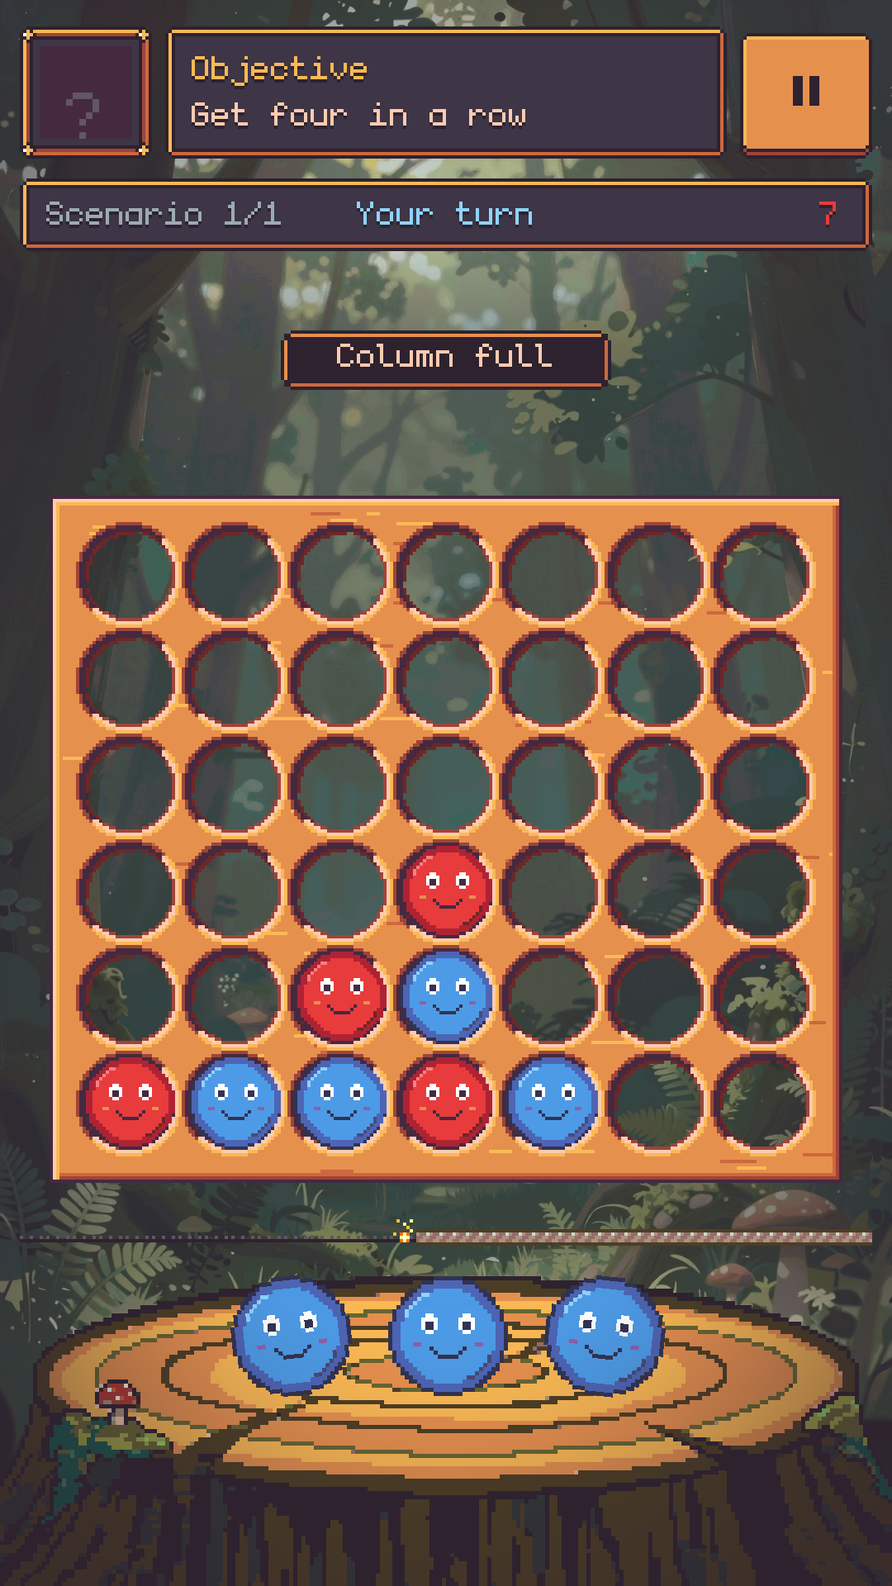
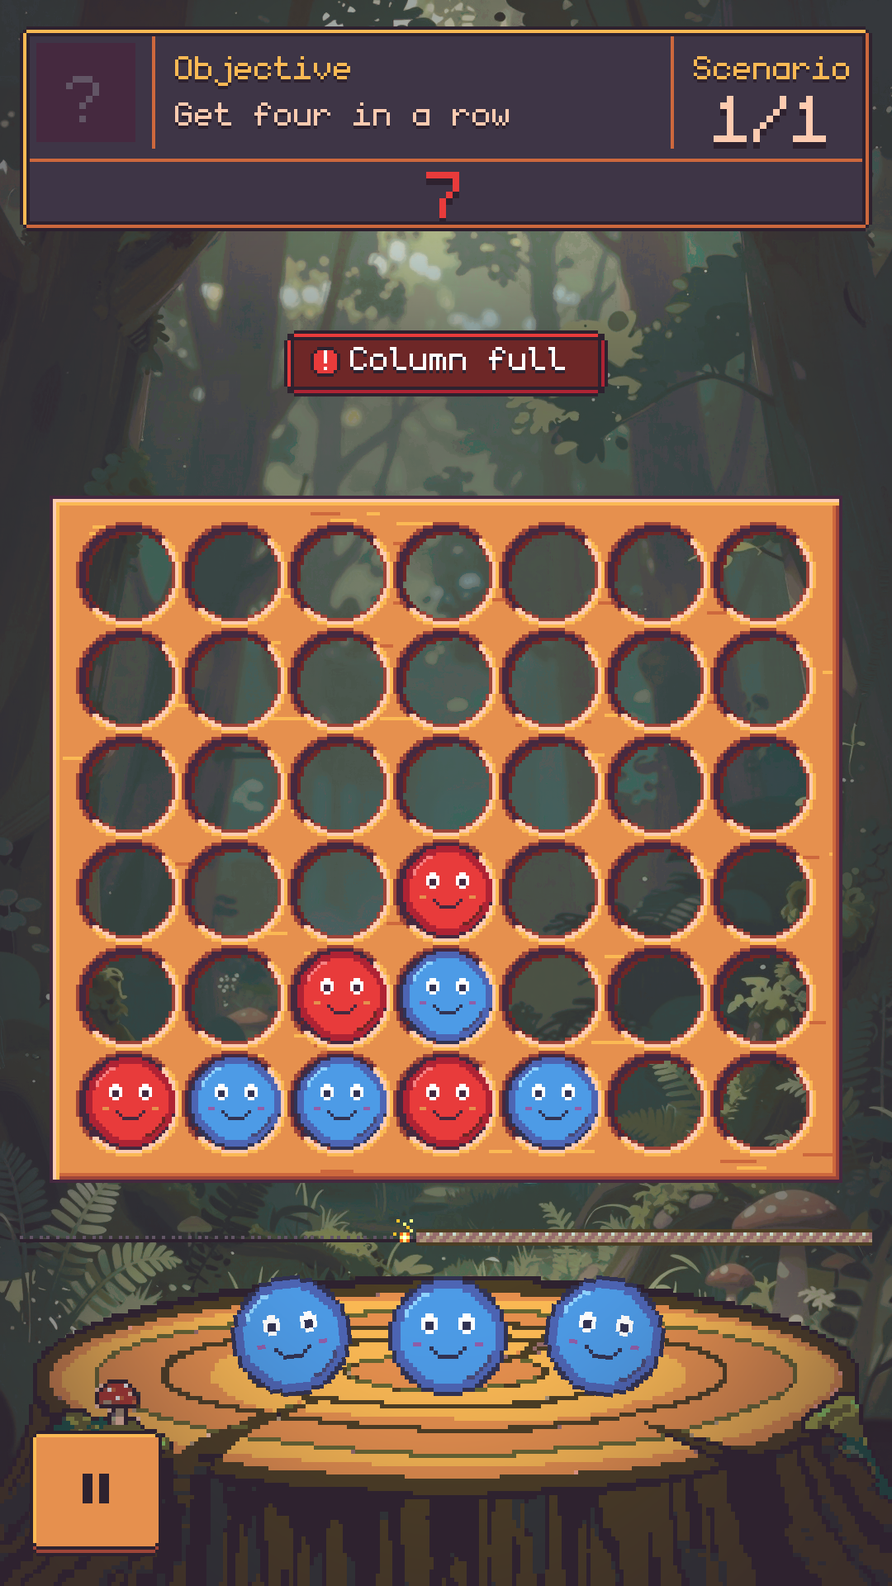
Art B: review round 1 - title vista bg, one-block HUD, error toast, pause bottom left

Changed region(s): [[0.0, 0.0, 0.9778, 0.1562], [0.3056, 0.1875, 0.7028, 0.25], [0.0306, 0.875, 0.1833, 1.0]]

diff --git a/art/ui/make_ui_mocks.py b/art/ui/make_ui_mocks.py
@@ -10,6 +10,7 @@ place the real Controls. The Strange Man figure is a placeholder silhouette (Art
 import math
 import os
 import sys
+import time
 
 import numpy as np
 from PIL import Image, ImageDraw, ImageFont
@@ -28,7 +29,8 @@ UI = {name: Image.open(f"assets/ui/{name}.png").convert("RGBA") for name in (
     "panel", "window", "dialogue", "dialogue_arrow", "button_normal", "button_pressed",
     "button_disabled", "toast", "banner", "slider_track", "slider_fill", "slider_knob",
     "toggle_on", "toggle_off", "segment_normal", "segment_selected", "icon_pause",
-    "icon_speaker", "icon_speaker_muted", "logo", "fuse_rope", "fuse_burnt", "fuse_spark")}
+    "icon_speaker", "icon_speaker_muted", "logo", "fuse_rope", "fuse_burnt", "fuse_spark",
+    "toast_error", "icon_error", "divider_h", "divider_v")}
 SCRIM = (*kit.INK0[:3], 178)
 
 
@@ -65,8 +67,8 @@ def text_img(s, colour, mult=1, italic=False):
 class Screen:
     def __init__(self, bg=None):
         self.px = Image.new("RGBA", (GW, GH), (0, 0, 0, 0))
-        if bg == "forest":
-            self.bg = Image.open("assets/backgrounds/forest.png").convert("RGBA")
+        if bg in ("forest", "title"):
+            self.bg = Image.open(f"assets/backgrounds/{bg}.png").convert("RGBA")
         else:
             self.bg = Image.new("RGBA", (GW * S, GH * S), kit.INK0 if bg is None else bg)
 
@@ -98,7 +100,15 @@ class Screen:
         if vignette:
             out = apply_vignette(out)
         out.alpha_composite(self.px.resize((GW * S, GH * S), Image.NEAREST))
-        out.convert("RGB").save(os.path.join(OUT, f"mock_{name}.png"))
+        # Windows sometimes holds the file (an open viewer, the Godot importer): retry.
+        path = os.path.join(OUT, f"mock_{name}.png")
+        for attempt in range(10):
+            try:
+                out.convert("RGB").save(path)
+                return
+            except OSError:
+                time.sleep(0.5)
+        raise OSError("could not write " + path)
 
 
 def apply_vignette(img, strength=0.55):
@@ -151,25 +161,40 @@ def draw_fuse(s, x, y, w, burnt):
     s.put(UI["fuse_spark"].crop((11, 0, 22, 11)), end - 5, y - 1)
 
 
-def hud(s, top=8, turn="Your turn", timer="24", timer_red=False):
+def hud(s, top=8, timer="24", timer_red=False):
+    """One HUD block with sections (Sean, 2026-11-20 review): portrait | objective |
+    scenario on top, the turn timer centred in the lower section. Pause is bottom left."""
     x0, w = 6, GW - 12
-    # Portrait frame (Strange Man head crop comes in Art pass C).
-    s.panel("window", x0, top, 40, 40)
-    s.put(Image.new("RGBA", (28, 28), hexc("45293f")), x0 + 6, top + 6)
-    s.text("?", x0 + 20, top + 12, kit.INK2, 2, centre=True, shadow=False)
-    # Objective panel.
-    s.panel("panel", x0 + 44, top, w - 44 - 44, 40)
-    s.text("Objective", x0 + 52, top + 5, kit.GOLD_HI)
-    s.text("Get four in a row", x0 + 52, top + 19, kit.CREAM)
-    # Pause button (36x36 = 96 px at the 720 base).
-    s.panel("button_normal", GW - 6 - 40, top + 2, 40, 38)
-    s.put(UI["icon_pause"], GW - 6 - 24, top + 2 + 13)
-    # Status row: run details, turn, timer.
-    y = top + 46
-    s.panel("panel", x0, y, w, 22)
-    s.text("Scenario 1/1", x0 + 8, y + 3, kit.INK3 if False else hexc("9babb2"))
-    s.text(turn, GW // 2, y + 3, hexc("8fd3ff") if turn == "Your turn" else hexc("f68181"), centre=True)
-    s.text(timer, GW - 6 - 10 - int(FONT.getlength(timer)), y + 3, hexc("e83b3b") if timer_red else kit.CREAM, 1)
+    top_h, low_h = 40, 22
+    s.panel("panel", x0, top, w, top_h + low_h)
+    # Portrait section (Strange Man head crop comes in Art pass C).
+    s.put(Image.new("RGBA", (30, 30), hexc("45293f")), x0 + 5, top + 5)
+    s.text("?", x0 + 20, top + 7, kit.INK2, 2, centre=True, shadow=False)
+    vx1, vx2 = x0 + 39, x0 + w - 62
+    for vx in (vx1, vx2):
+        s.put(UI["divider_v"].resize((3, top_h - 6)), vx, top + 3)
+    s.put(UI["divider_h"].resize((w - 6, 3)), x0 + 3, top + top_h - 1)
+    # Objective section.
+    s.text("Objective", vx1 + 8, top + 5, kit.GOLD_HI)
+    s.text("Get four in a row", vx1 + 8, top + 19, kit.CREAM)
+    # Scenario section (where Pause was).
+    cx = (vx2 + 3 + x0 + w) // 2
+    s.text("Scenario", cx, top + 5, kit.GOLD_HI, centre=True)
+    s.text("1/1", cx, top + 13, kit.CREAM, 2, centre=True)
+    # Lower section: the turn timer, centred ("—" on the opponent's turn).
+    s.text(timer, GW // 2, top + top_h - 4, hexc("e83b3b") if timer_red else kit.CREAM, 2, centre=True)
+    # Pause button, bottom left of the safe area (36 game px = 96 px at the 720 base).
+    s.panel("button_normal", 9, GH - 9 - 38, 40, 38)
+    s.put(UI["icon_pause"], 9 + 16, GH - 9 - 38 + 13)
+
+
+def error_toast(s, msg, y=100):
+    """Error toast: red pill + warning badge, above the aim lane."""
+    w = int(FONT.getlength(msg)) + 32
+    x = (GW - w) // 2
+    s.panel("toast_error", x, y, w, 20)
+    s.put(UI["icon_error"], x + 8, y + 5)
+    s.text(msg, x + 20, y + 1, kit.WHITE)
 
 
 CELLS = {(0, 0): "red", (1, 0): "blue", (2, 0): "blue", (3, 0): "red", (3, 1): "blue",
@@ -177,12 +202,9 @@ CELLS = {(0, 0): "red", (1, 0): "blue", (2, 0): "blue", (3, 0): "red", (3, 1): "
 
 
 def mock_title():
-    s = Screen("forest")
+    s = Screen("title")
     logo = UI["logo"]
-    s.put(logo, (GW - logo.width) // 2, 70)
-    for i, (x, col) in enumerate(((50, "blue"), (110, "red"), (170, "blue"), (220, "red"))):
-        g = goob(col)
-        s.put(g, x - 16, 300 - (6 if i % 2 else 0))
+    s.put(logo, (GW - logo.width) // 2, 60)
     s.text("Tap to start", GW // 2, 236, kit.WHITE, 2, centre=True)
     s.button("Options", 75, 380, 120)
     s.button("Quit", 95, 422, 80)
@@ -194,37 +216,34 @@ def mock_hud():
     s = Screen("forest")
     board_scene(s, CELLS)
     hud(s, timer="7", timer_red=True)
-    # Aim lane: a toast above it.
-    s.panel("toast", 85, 100, 100, 18)
-    s.text("Column full", GW // 2, 100, kit.CREAM, centre=True)
+    error_toast(s, "Column full")
     s.save("2_hud_toast_fuse")
 
 
 def mock_dialogue():
-    s = Screen(kit.INK0)
-    bg = Image.new("RGBA", (GW * S, GH * S), (0, 0, 0, 255))
-    d = ImageDraw.Draw(bg)
-    # Oval light pool (pixel steps): concentric ellipses on the game grid.
-    pool = Image.new("RGBA", (GW, GH), (0, 0, 0, 255))
+    """Strange Man intro: the forest barely visible behind him (it fades into focus when
+    the round starts; Sean, 2026-11-20). His two Goobs will be painted (Art pass C)."""
+    s = Screen("forest")
+    dark = Image.new("RGBA", s.bg.size, (0, 0, 0, 225))
+    s.bg.alpha_composite(dark)
+    pool = Image.new("RGBA", (GW, GH), (0, 0, 0, 0))
     pd = ImageDraw.Draw(pool)
     for i, c in enumerate(("2e222f", "3e3546", "625565")):
         rx, ry = 70 - i * 16, 18 - i * 4
         pd.ellipse((135 - rx, 300 - ry, 135 + rx, 300 + ry), fill=hexc(c))
-    s.bg = pool.resize((GW * S, GH * S), Image.NEAREST)
+    s.bg.alpha_composite(pool.resize((GW * S, GH * S), Image.NEAREST))
     # Placeholder figure (Art pass C): ~96x160 silhouette.
     fig = Image.new("RGBA", (96, 160), (0, 0, 0, 0))
     fd = ImageDraw.Draw(fig)
     fd.ellipse((30, 6, 66, 44), fill=hexc("484a77"))
     fd.rounded_rectangle((18, 40, 78, 150), 12, fill=hexc("484a77"))
     s.put(fig, 135 - 48, 300 - 152)
-    s.text("placeholder: Strange Man comes in Art pass C", GW // 2, 120, kit.INK2, centre=True, shadow=False)
-    b = goob("blue")
-    s.put(b, 60, 300 - 30)
-    r = goob("red", 0)
-    s.put(Image.open("assets/goobs/vanilla/red_pitch/frame_02.png").convert("RGBA"), 178, 300 - 22)
-    # Skip button, top right (>= 96 px).
+    s.text("placeholder: Strange Man + painted", GW // 2, 112, kit.INK2, centre=True, shadow=False)
+    s.text("Goobs come in Art pass C", GW // 2, 124, kit.INK2, centre=True, shadow=False)
+    for cx, ry in ((70, 14), (200, 6)):  # where the two painted Goobs land
+        pd2 = ImageDraw.Draw(s.px)
+        pd2.ellipse((cx - 14, 296 - ry * 2, cx + 14, 300), outline=hexc("484a77"))
     s.button("Skip", GW - 6 - 64, 10, 64)
-    # Dialogue box at the bottom of the safe area.
     s.panel("dialogue", 6, 340, GW - 12, 96)
     s.text("This is a land of Goobs.", 20, 356, kit.WHITE)
     s.put(UI["dialogue_arrow"], GW - 6 - 22, 340 + 96 - 18)

diff --git a/art/backgrounds/make_title.py b/art/backgrounds/make_title.py
@@ -1,0 +1,86 @@
+"""Title screen painted background: a Goob kingdom vista (Sean, 2026-11-20 Art B review).
+
+Usage (from the repo root, with local ComfyUI running on 127.0.0.1:8188):
+    python art/backgrounds/make_title.py generate [seed ...]   # -> art/backgrounds/title_raw_<seed>.png
+    python art/backgrounds/make_title.py grade <raw.png>       # -> assets/backgrounds/title.png
+
+Same pipeline as make_forest.py (Z-Image Turbo, then a soft Resurrect 64 palette
+grade), without the board band. Sean wants "realistic" painted Goobs scattered in the
+scene (not the game-piece sprites, not in a row), and a calm sky at the top for the logo.
+"""
+import json
+import os
+import sys
+import time
+import urllib.request
+
+from PIL import Image, ImageEnhance
+
+HERE = os.path.dirname(os.path.abspath(__file__))
+sys.path.insert(0, HERE)
+import make_forest as mf  # noqa: E402
+
+RAW_DIR = "art/backgrounds"
+OUT = "assets/backgrounds/title.png"
+
+PROMPT = (
+    "Painted fantasy landscape for a mobile game title screen, vertical composition, "
+    "soft painterly storybook illustration. The top 40 percent of the image is an empty, "
+    "calm warm dusk sky with a few soft clouds and nothing else. Below it, a vast kingdom "
+    "vista: rolling green hills and meadows, a winding river, and small in the far distance, "
+    "low on the horizon in the centre of the image, a faded, slightly crumbling castle with "
+    "round towers half lost in golden haze. "
+    "Scattered naturally across the meadow in the lower half, a few small round smooth "
+    "creatures like plump living coins, glossy blue ones and red ones, with simple cute faces, "
+    "no arms, no legs, resting in the grass at different distances, one peeking from behind "
+    "a rock. Wildflowers and tall grass in the foreground. "
+    "Muted greens, teal shadows, warm golden light, atmospheric depth, no people, "
+    "no text, no frame"
+)
+
+
+def generate(seed):
+    mf.PROMPT = PROMPT
+    wf = mf.workflow(seed)
+    wf["10"]["inputs"]["filename_prefix"] = "title_%d" % seed
+    pid = mf._post("/prompt", {"prompt": wf})["prompt_id"]
+    while True:
+        hist = json.load(urllib.request.urlopen("%s/history/%s" % (mf.COMFY, pid)))
+        if pid in hist:
+            break
+        time.sleep(2)
+    img = hist[pid]["outputs"]["10"]["images"][0]
+    url = "%s/view?filename=%s&subfolder=%s&type=%s" % (mf.COMFY, img["filename"], img["subfolder"], img["type"])
+    path = os.path.join(RAW_DIR, "title_raw_%d.png" % seed)
+    with open(path, "wb") as f:
+        f.write(urllib.request.urlopen(url).read())
+    print("wrote", path)
+
+
+def grade(raw_path):
+    src = Image.open(raw_path).convert("RGB")
+    s = max(mf.OUT_W / src.width, mf.OUT_H / src.height)
+    src = src.resize((round(src.width * s), round(src.height * s)), Image.LANCZOS)
+    x0, y0 = (src.width - mf.OUT_W) // 2, (src.height - mf.OUT_H) // 2
+    img = src.crop((x0, y0, x0 + mf.OUT_W, y0 + mf.OUT_H))
+    img = ImageEnhance.Color(img).enhance(0.85)
+    img = ImageEnhance.Contrast(img).enhance(0.9)
+    cache = {}
+    px = img.load()
+    for y in range(mf.OUT_H):
+        for x in range(mf.OUT_W):
+            c = px[x, y]
+            p = mf._soft_palette(c, cache)
+            px[x, y] = tuple(round(c[k] * 0.3 + p[k] * 0.7) for k in range(3))
+    img.save(OUT)
+    print("wrote", OUT)
+
+
+if __name__ == "__main__":
+    if len(sys.argv) >= 2 and sys.argv[1] == "generate":
+        for a in sys.argv[2:] or ["1", "2", "3"]:
+            generate(int(a))
+    elif len(sys.argv) == 3 and sys.argv[1] == "grade":
+        grade(sys.argv[2])
+    else:
+        print(__doc__)

diff --git a/art/ui/make_ui_kit.py b/art/ui/make_ui_kit.py
@@ -12,7 +12,8 @@ Outputs in assets/ui/ (9-slice margins = the `MARGINS` table below, in game px):
   dialogue.png         Strange Man dialogue box (chunky 2 px gold border)
   dialogue_arrow.png   blinking "next page" triangle
   button_normal.png    honey button with a 2 px lip; _pressed sinks 2 px; _disabled greyed
-  toast.png            toast pill
+  toast.png            toast pill; toast_error.png + icon_error.png for errors (Column full, Hand full)
+  divider_h.png / divider_v.png  section lines inside the one-block HUD
   banner.png           end-overlay frame (double border, gold studs)
   slider_track.png     slider groove; slider_fill.png the filled part; slider_knob.png
   toggle_on.png / toggle_off.png
@@ -63,6 +64,7 @@ MARGINS = {
     "button_pressed": (4, 6, 4, 4),
     "button_disabled": (4, 4, 4, 6),
     "toast": (5, 5, 5, 5),
+    "toast_error": (5, 5, 5, 5),
     "banner": (8, 8, 8, 8),
     "slider_track": (3, 3, 3, 3),
     "slider_fill": (3, 3, 3, 3),
@@ -177,6 +179,35 @@ def button(state, w=12, h=16):
 
 def toast(w=14, h=12):
     return frame(w, h, [INK0, (GOLD, GOLD_LO), INK0], INK0, radius=3)
+
+
+def toast_error(w=14, h=12):
+    """Error toast ("Column full", "Hand full"): red, so it reads as a warning, not HUD."""
+    return frame(w, h, [INK0, (RED, RED_LO), INK0], hexc("6e2727"), radius=3)
+
+
+def icon_error():
+    """9x9 warning badge: white "!" on a red disc."""
+    return bitmap([
+        "..#####..",
+        ".#rrwrr#.",
+        "#rrrwrrr#",
+        "#rrrwrrr#",
+        "#rrrwrrr#",
+        "#rrrrrrr#",
+        "#rrrwrrr#",
+        ".#rrrrr#.",
+        "..#####..",
+    ], {"#": INK0, "r": RED, "w": WHITE})
+
+
+def divider_h():
+    """Tileable horizontal section divider for the one-block HUD (4x3)."""
+    return bitmap(["....", "####", "...."], {"#": GOLD_LO})
+
+
+def divider_v():
+    return bitmap([".#."] * 4, {"#": GOLD_LO})
 
 
 def banner(w=20, h=20):
@@ -382,8 +413,8 @@ def logo():
     def line(y, parts):
         x = (w - sum(p.width for p in parts) - gap * (len(parts) - 1)) // 2
         for p in parts:
-            # Goobs (32 px) sit centred on the letters' cap height.
-            img.alpha_composite(p, (x, y + (lh - 6 - p.height) // 2 + 1 if p.height == 32 else y))
+            # Goobs (32 px) centre on the cap height (letters' caps are rows 1-30).
+            img.alpha_composite(p, (x, y))
             x += p.width + gap
     line(0, lines[0])
     img.alpha_composite(small, ((w - small.width) // 2, lh - 4))
@@ -463,6 +494,10 @@ def build():
         "button_pressed": button("pressed"),
         "button_disabled": button("disabled"),
         "toast": toast(),
+        "toast_error": toast_error(),
+        "icon_error": icon_error(),
+        "divider_h": divider_h(),
+        "divider_v": divider_v(),
         "banner": banner(),
         "slider_track": slider_track(),
         "slider_fill": slider_fill(),

diff --git a/CLAUDE.md b/CLAUDE.md
@@ -69,7 +69,7 @@ Full acceptance list: **§Ship checklist** (A1–A10) and vault `vertical-slice-
 
 ### Flow
 
-- Boot → Title → **Strange Man** (dialogue below; full body ~96×160 game px on an oval light pool on black; bottom dialogue box, blinking ▼, 5 pages = one per sentence; the blue and red Vanilla Goobs pop in beside him on "This is a land of Goobs." — blue upright, red flat; Skip button) → forest fades in → **Coin flip** → board transitions in → Scenario. Scenes change with ~0.3 s fades through black (not affected by animation speed).
+- Boot → Title (painted **Goob kingdom vista** with painted Goobs scattered in it + pixel logo; Sean 2026-11-20) → **Strange Man** (dialogue below; full body ~96×160 game px on an oval light pool, the **forest barely visible behind** (fades into focus when the round starts; Sean 2026-11-20); bottom dialogue box, blinking ▼, 5 pages = one per sentence; a blue and a red Vanilla Goob, **painted, not the game-piece sprites** (Sean 2026-11-20), pop in beside him on "This is a land of Goobs." — blue upright, red flat; Skip button) → forest fades in → **Coin flip** → board transitions in → Scenario. Scenes change with ~0.3 s fades through black (not affected by animation speed).
 - **Coin flip (Sean, 2026-11-13; supersedes "player picks heads/tails"):** no pick. The coin is a Vanilla Goob with a blue face and a red face in the screen centre; the player **swipes up anywhere** (starting on the coin = stronger toss; a tap = gentle toss); **50/50 random**, the landed colour goes first (blue = player). Stronger toss = more spins/arc in the same ~0.6 s. Options **Auto-flip coin** (default Off) flips ~0.5 s after the screen appears. After a draw the board fades out, the flip happens over the forest, the board returns.
 - **Tapping the start screen counts as Press Start** (a mouse click on desktop). Strange Man plays **after every Press Start** (portrait: old man in Goob-land clothes holding one Goob). No separate tutorial.
 - Coin winner moves first (`GameFlow.player_moves_first`). The whole coin flip lasts **≤ 3 s** (Sean, 2026-11-11); M6 animation: coin pops in, ~0.6 s toss, ~0.5 s rest, full-screen flash in the **winner's colour** (blue player / red opponent) + "goes first" banner ~1 s. **Scenario begins as soon as the flip is decided** (no extra start button).
@@ -132,7 +132,7 @@ Card text = immediate effect only. Random targets: game picks the target first, 
 - **Renderer: decided later** (after M7). Project uses **mobile** for now; only use effects that also work in **Compatibility** (no DoF, no CompositorEffects, no HDR 2D). Enable the shader baker at export.
 - **Gameplay input reads `InputEventScreenTouch` / `InputEventScreenDrag` only** (never also the emulated mouse events). Single pointer, no hover, no multitouch. Buttons use normal Control signals.
 - **Safe area:** full-screen background; HUD/board/hand inside a SafeArea MarginContainer from `DisplayServer.get_display_safe_area()`, reapplied on resize; debug toggle simulates phone insets (~110 px top, ~70 px bottom at 720 base). Nothing interactive in the bottom home-gesture strip; hand inset ≥ 24 px from side edges.
-- **Layout (top → bottom, 720 base; revised Sean 2026-11-11):** board **vertically centred**. Above it the HUD: opponent portrait (v0.1 opponent = **Strange Man**, head crop, no name) · "Objective" + per-scenario text ("Get four in a row") · **Pause** top right (Resume / Options / Quit; Sean 2026-11-13, replaces the HUD Quit button; pause stops timer, opponent and animations behind a scrim; Quit confirms "Quit this scenario?" → Title, not a loss) · run details · turn + timer (number from 30, red last 10 s, "—" on opponent's turn); then aim lane 100 · board (no opponent hand zone). Below it a thin **turn-timer strip** (fuse, M6), then **only the player hand**: up to 5 Goobs in a shallow **fan** (tilted outward, no overlap, no slots, ≥ 96 px each), resting on the **biome's hand prop** (Forest: an oak stump, narrower than the screen; Sean 2026-11-19; the board stands on nothing and has no feet). **No deck piles or deck count** in v0.1. Drawn Goob pops in big at the centre ~0.7 s, then flies into the fan (M4). Coin result not shown in the scenario. Win/lose/draw = big flashy centred overlay (lead-in: winner's Goobs happy, loser's sad, winning four celebratory face; on a player win the opponent portrait shows "well played", then cracks and explodes; on his win it celebrates). End overlay copy: "You win!" / "You lose" + "Back to title"; "Draw" + "Replay". Opponent portrait expressions (Sean, 2026-11-13): idle, thinking (think delay), happy, angry, surprised (only chains and timeout rolls), celebrating, well played. Toasts: one at a time above the aim lane, ~1.2 s, readable on Skip. **UI pixel unit = one board game pixel** (panels, Monogram text, icons); layout on the 720 base. Full UI spec: vault slice §2B "UI grill (2026-11-13)". Turn banners: red "Opponent's turn", blue "Your turn" (no tint). **Touch-target floor 96 px**; board columns (≈ 85–92 px) accepted, recheck at the M3.6 playtest. HUD, hand and overlays stay crisp Controls on the 720 base.
+- **Layout (top → bottom, 720 base; revised Sean 2026-11-11, HUD 2026-11-20):** board **vertically centred**. Above it the HUD, **one block with sections** (Sean 2026-11-20): top row opponent portrait (v0.1 opponent = **Strange Man**, head crop, no name) · "Objective" + per-scenario text ("Get four in a row") · **Scenario "1/1"** top right; lower section = **turn timer centred** (number from 30, red last 10 s, "—" on opponent's turn; no turn text in the HUD). **Pause** button at the **bottom left** of the safe area (Resume / Options / Quit; Sean 2026-11-13, replaces the HUD Quit button; pause stops timer, opponent and animations behind a scrim; Quit confirms "Quit this scenario?" → Title, not a loss); then aim lane 100 · board (no opponent hand zone). Below it a thin **turn-timer strip** (fuse, M6), then **only the player hand**: up to 5 Goobs in a shallow **fan** (tilted outward, no overlap, no slots, ≥ 96 px each), resting on the **biome's hand prop** (Forest: an oak stump, narrower than the screen; Sean 2026-11-19; the board stands on nothing and has no feet). **No deck piles or deck count** in v0.1. Drawn Goob pops in big at the centre ~0.7 s, then flies into the fan (M4). Coin result not shown in the scenario. Win/lose/draw = big flashy centred overlay (lead-in: winner's Goobs happy, loser's sad, winning four celebratory face; on a player win the opponent portrait shows "well played", then cracks and explodes; on his win it celebrates). End overlay copy: "You win!" / "You lose" + "Back to title"; "Draw" + "Replay". Opponent portrait expressions (Sean, 2026-11-13): idle, thinking (think delay), happy, angry, surprised (only chains and timeout rolls), celebrating, well played. Toasts: one at a time above the aim lane, ~1.2 s, readable on Skip; error toasts ("Column full", "Hand full") are a red pill with a "!" badge (Sean 2026-11-20). **UI pixel unit = one board game pixel** (panels, Monogram text, icons); layout on the 720 base. Full UI spec: vault slice §2B "UI grill (2026-11-13)". Turn banners: red "Opponent's turn", blue "Your turn" (no tint). **Touch-target floor 96 px**; board columns (≈ 85–92 px) accepted, recheck at the M3.6 playtest. HUD, hand and overlays stay crisp Controls on the 720 base.
 - **Column touch (M3.5, Sean 2026-11-10):** touch down on a legal column = **blue flash** over column + aim lane, and **your Goob floats on top of the board over that column** (gentle bob; Sean, 2026-11-13; also during the timeout reveal); flash and Goob stay while held and follow the finger; **release over a column = drop**, release outside board = cancel (quick tap drops at once). Touching/sliding onto a full column = shake + error SFX + toast **once per entry**, no flash; releasing there = neutral. Input locked from release until the drop finishes.
 - **Playing a Goob (M4):** drag (lift > ~12 px, ghost over the column under the finger, **release over board = drop, release outside = cancel**, Goob flies back to hand; **nothing dims**, same blue column flash as M3.5) or tap (tap Goob to select, tap column to aim, **tap same column again = drop**). From M4 a quick tap on a column only aims; hold > ~0.25 s or slide, then release over a column still drops (Sean, 2026-11-11). **No undo.** **M4 open rules (Sean, 2026-11-13):** a column touch with no hand Goob selected is ignored; at timeout the selected/dragged Goob plays, else a random hand Goob; until M6 the opponent plays a random Goob from its hand. Column hit area = full column height + aim lane. Full column greyed while aiming. **Double tap = inspect** (name + card text; closes on next tap; Sean 2026-11-10, was long-press): always on hand Goobs, on board Goobs only when no hand Goob is selected. Input locked during the opponent's turn and animations.
 - **Inspect panel (Sean, 2026-11-13):** Goob big on the left; right: name (Monogram 2×, accent colour), effect centred; flavour text (Monogram italic) across the full width at the bottom; board dimmed; next tap closes. Vanilla: name + flavour only. M4 uses a placeholder flavour line. **Hand:** tap lifts the Goob in place, hold makes it follow the finger; giggle face in both.
@@ -275,7 +275,7 @@ Full plan + gap table: vault `Design/Roadmap v0.1 - remaining art and code.md`. 
 - [ ] 9-slice pixel panels (dark ink + warm accent, board pixel unit, Resurrect 64): HUD panel, dialogue box (chunky border + ▼), button states, toast pill, inspect panel, end-banner frame, pause/options panel, scrim
 - [ ] Options widgets (slider + knob, On/Off toggle, Normal/Fast/Skip segmented control, speaker/muted icons), pause icon
 - [ ] Pixel logo "Four in a Rogue"; fuse strip (rope + burning spark, 24 px); subtle vignette
-- [ ] **Approval:** one mock set (title, HUD top bar, Strange Man dialogue box, pause + Options, vignette on), then final assets
+- [ ] **Approval:** one mock set (title, HUD top bar, Strange Man dialogue box, pause + Options, vignette on), then final assets. Round 1 reviewed 2026-11-20 (branch `art-b-ui-kit`): logo, dialogue UI, pause, Options approved; title bg, HUD block, error toast, pause position revised
 
 ### Art pass C — the Strange Man
 
